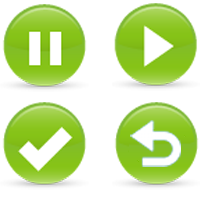
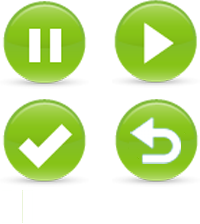
update game

diff --git a/example/js/game.js b/example/js/game.js
@@ -133,7 +133,7 @@
 		// 初始化舞台
 		_this.stage = new Q.Stage({context : _this.context, width : _this.width,height : _this.height,
 			update : function() {
-				frames++;
+				_this.frames++;
 				if (_this.state == STATE.MENU) {
 				} else if (_this.state == STATE.PLAY) {
 					_this.updateSquirrel();
@@ -244,9 +244,9 @@
 	game.showUI = function() {
 		if (this.playBtn==null) {
 			// 开始按钮
-			var playBtn = new Q.Button({id : "playBtn",image : this.getImage("icons"), x:350, y:250, width:100, height:100,});
-			playBtn.setUpState({rect : [100, 0, 100, 100 ]});
-			playBtn.setOverState({rect : [0, 0, 100, 100 ]});
+			var playBtn = new Q.Button({id : "playBtn",image : this.getImage("icons"), x:350, y:250, width:100, height:100});
+			playBtn.setUpState({rect : [110, 0, 90, 90 ]});
+			playBtn.setOverState({rect : [110, 0, 90, 90 ]});
 			this.playBtn = playBtn;
 			playBtn.addEventListener("mouseup",function(){
 					game.stage.removeAllChildren();
@@ -263,7 +263,7 @@
 						setTimeout(Q.delegate(game.showMain, game), 100);
 					}			
 			});
-/*			playBtn.addEventListener("touchend",function(){
+			playBtn.addEventListener("touchend",function(){
 					game.stage.removeAllChildren();
 					game.context.canvas.style.cursor = "";
 					if (game.state == STATE.MENU) {
@@ -277,7 +277,7 @@
 						game.timer.paused = false;
 						setTimeout(Q.delegate(game.showMain, game), 100);
 					}			
-			}); */
+			}); 
 
 			// 帮助提示
 			var tip = Q.createDOM("div", {
@@ -330,18 +330,13 @@
 				_this.stage.addChild(ball);
 			} 
 			// 暂停、继续按钮
-			var pauseBtn = new Q.Button({
-				id : "pauseBtn",
-				image : _this.getImage("icons")
-			});
+			var pauseBtn = new Q.Button({id : "pauseBtn",image : _this.getImage("icons"), x:20, y:20, width:40, height:40});
 			pauseBtn.setUpState({
-				rect : [ 0, 0, 100, 100 ]
+				rect : [ 0, 187, 40, 40 ]
 			});
 			pauseBtn.setOverState({
-				rect : [ 0, 0, 100, 100 ]
+				rect : [ 0, 187, 40, 40 ]
 			});
-			pauseBtn.x = 0;
-			pauseBtn.y = 0;
 			_this.pauseBtn = pauseBtn;
 			
 			_this.pauseBtn.addEventListener("mouseup",function(){
@@ -354,7 +349,7 @@
 					game.stage.step();
 			})
 			
-/*			_this.pauseBtn.addEventListener("touchend",function(){
+			_this.pauseBtn.addEventListener("touchend",function(){
 				if (game.state == STATE.OVER)
 					return;
 				else
@@ -362,7 +357,7 @@
 					game.timer.paused = !paused;
 					pauseBtn.gotoAndStop(paused ? 0 : 1);
 					game.stage.step();
-			})*/
+			})
 		}
 
 		// 添加所有对象到舞台
